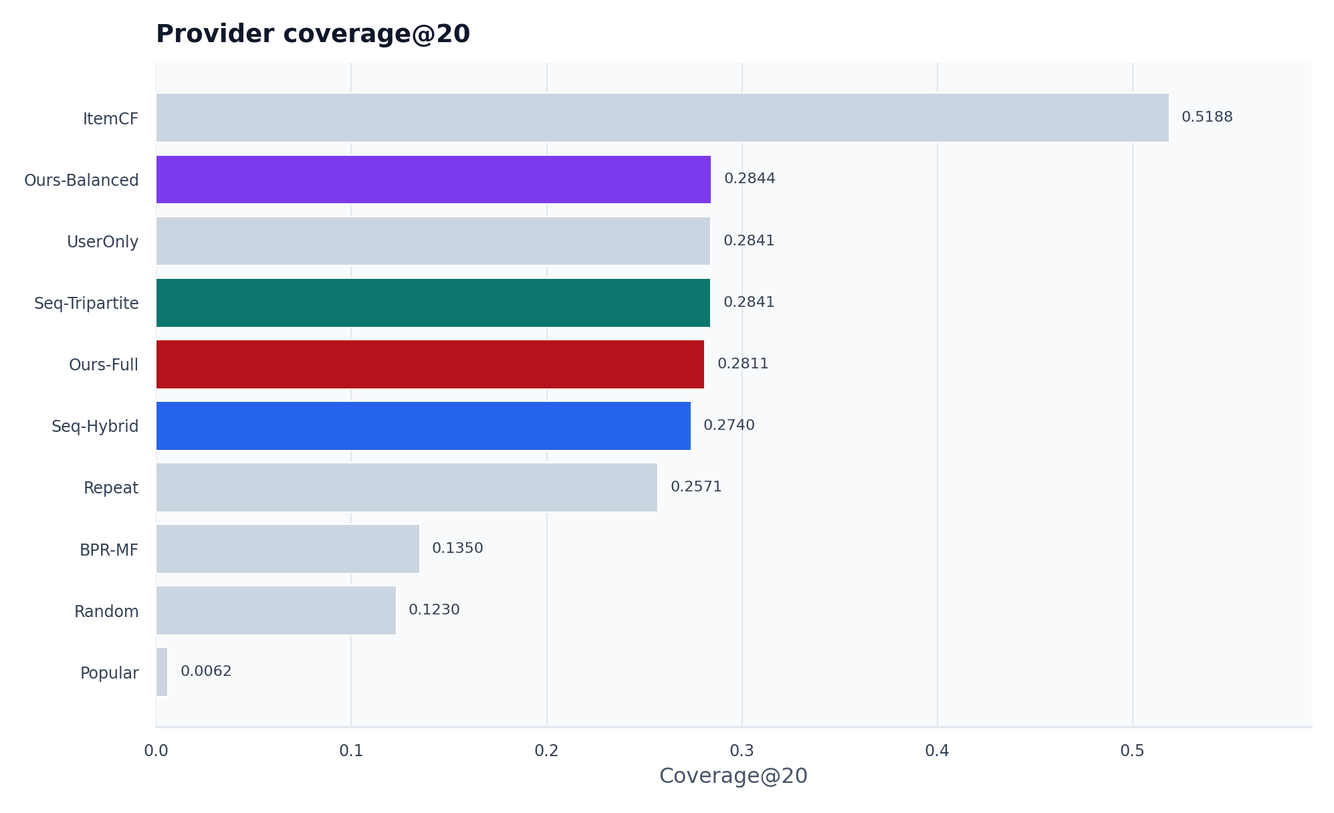
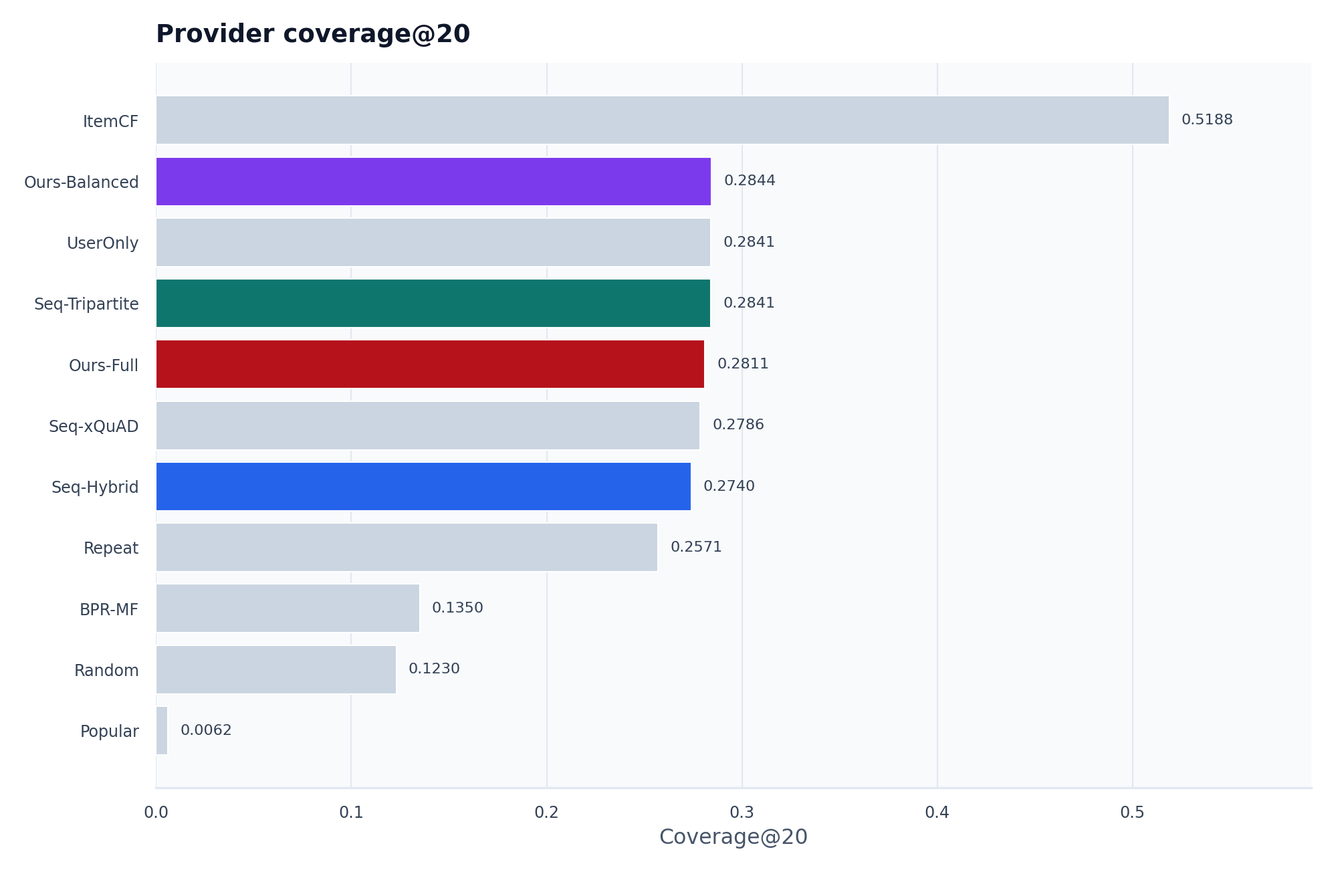
Add xQuAD sequence reranker

diff --git a/foodflow/report.py b/foodflow/report.py
@@ -102,23 +102,23 @@ def build_report(
 
 ## 3. 方法设计
 
-实现的推荐策略包括 Random、Popular、Repeat、ItemCF、BPR-MF、UserOnly、Seq-Hybrid、Seq-Tripartite 和 Ours-Full。Random 和 Popular 是基础对照；Repeat 反映外卖复购特征；ItemCF 和 BPR-MF 是传统协同过滤基线；UserOnly 使用品类、复购、价格、时段和商家质量；Seq-Hybrid 借鉴 FPMC/下一篮子推荐和会话推荐思想，加入最近订单时间衰减、复购频率和商家转移概率；Seq-Tripartite 在序列偏好底座上轻量加入公平、ETA 和供给约束；Ours-Full 在 UserOnly 上加入商家曝光公平、ETA 和供给分。
+实现的推荐策略包括 Random、Popular、Repeat、ItemCF、BPR-MF、UserOnly、Seq-Hybrid、Seq-xQuAD、Seq-Tripartite 和 Ours-Full。Random 和 Popular 是基础对照；Repeat 反映外卖复购特征；ItemCF 和 BPR-MF 是传统协同过滤基线；UserOnly 使用品类、复购、价格、时段和商家质量；Seq-Hybrid 借鉴 FPMC/下一篮子推荐和会话推荐思想，加入最近订单时间衰减、复购频率和商家转移概率；Seq-xQuAD 在序列相关性基础上做列表级多样性与长尾曝光重排；Seq-Tripartite 在序列偏好底座上轻量加入公平、ETA 和供给约束；Ours-Full 在 UserOnly 上加入商家曝光公平、ETA 和供给分。
 
-为增强“不是只给一个手调模型”的可信度，系统还支持 Ours-Balanced，它提高用户偏好权重，同时保留 ETA 与供给约束，用于观察准确性和履约指标之间的权衡。答辩时可以把 Seq-Hybrid、Seq-Tripartite、Ours-Balanced 和 Ours-Full 作为一条多目标权衡链路：先用序列复购模型把离线准确性拉高，再展示三方重排如何换取更好的履约与平台效用。
+为增强“不是只给一个手调模型”的可信度，系统还支持 Ours-Balanced，它提高用户偏好权重，同时保留 ETA 与供给约束，用于观察准确性和履约指标之间的权衡。答辩时可以把 Seq-Hybrid、Seq-xQuAD、Seq-Tripartite、Ours-Balanced 和 Ours-Full 作为一条多目标权衡链路：先用序列复购模型把离线准确性拉高，再用列表级重排扩大覆盖，最后展示三方重排如何换取更好的履约与平台效用。
 
-三方仿真包括 Popular + Nearest、UserOnly + Nearest、UserOnly + MinETA、Seq-Hybrid + MinETA、Seq-Hybrid + LoadAware、Seq-Tripartite、Ours-Balanced、Ours w/o Fairness 和 Ours-Full。每轮模拟午餐高峰的一批用户请求，推荐列表经过选择模型产生订单，再由最近骑手、最小 ETA 或负载感知策略派单。
+三方仿真包括 Popular + Nearest、UserOnly + Nearest、UserOnly + MinETA、Seq-Hybrid + MinETA、Seq-xQuAD + MinETA、Seq-Hybrid + LoadAware、Seq-Tripartite、Ours-Balanced、Ours w/o Fairness 和 Ours-Full。每轮模拟午餐高峰的一批用户请求，推荐列表经过选择模型产生订单，再由最近骑手、最小 ETA 或负载感知策略派单。
 
 ## 4. 离线推荐结果
 
 {offline_table}
 
-推荐侧指标使用 Recall@K、NDCG@K、MRR@K 和 HitRate@K；商家侧指标使用 Coverage、Long-tail Exposure 和 Exposure Gini。这样既能看推荐是否命中真实下单，也能看曝光是否过度集中。全量 TRD 结果中，Seq-Hybrid 的 Recall@20、NDCG@20 和 HitRate@20 最高，说明外卖推荐确实受最近订单和复购序列影响；Seq-Tripartite 的 NDCG@20 和 HitRate@20 高于 UserOnly，同时保持更低曝光 Gini；Ours-Balanced 和 Ours-Full 离线准确率较低，但引入了履约和供给约束，因此后续需要结合仿真指标判断。
+推荐侧指标使用 Recall@K、NDCG@K、MRR@K 和 HitRate@K；商家侧指标使用 Coverage、Long-tail Exposure 和 Exposure Gini。这样既能看推荐是否命中真实下单，也能看曝光是否过度集中。全量 TRD 结果中，Seq-xQuAD 的 Recall@20、NDCG@20、MRR@20 和 HitRate@20 最高，说明外卖推荐既受最近订单和复购序列影响，也能从列表级多样性重排中获益；Seq-Tripartite 的 NDCG@20 和 HitRate@20 高于 UserOnly，同时保持更低曝光 Gini；Ours-Balanced 和 Ours-Full 离线准确率较低，但引入了履约和供给约束，因此后续需要结合仿真指标判断。
 
 ## 5. 动态履约仿真结果
 
 {simulation_table}
 
-履约侧指标包括完成订单数、平均 ETA、超时率、骑手负载标准差和平台综合效用。Ours-Full 的目标不是所有单项指标都最大，而是在准确性、公平性和履约可行性之间取得更适合外卖平台的折中。全量 TRD 仿真中，Seq-Hybrid 提升了离线推荐准确性；Seq-Tripartite 在序列准确性和履约约束之间取得折中；Ours-Full 则取得最高平台效用和更低超时率，说明推荐策略进入履约链路后不能只看离线命中。
+履约侧指标包括完成订单数、平均 ETA、超时率、骑手负载标准差和平台综合效用。Ours-Full 的目标不是所有单项指标都最大，而是在准确性、公平性和履约可行性之间取得更适合外卖平台的折中。全量 TRD 仿真中，Seq-xQuAD 提升了离线推荐准确性，但进入派单后平台效用不一定最高；Seq-Tripartite 在序列准确性和履约约束之间取得折中；Ours-Full 则取得最高平台效用和更低超时率，说明推荐策略进入履约链路后不能只看离线命中。
 
 ## 6. 图表展示
 
@@ -126,7 +126,7 @@ def build_report(
 
 ## 7. 结论与局限
 
-FoodFlow 的答辩故事可以概括为三步：第一，公开外卖订单数据上的推荐实验证明模型不是随机的；第二，显式加入商家曝光、长尾曝光和 Gini 指标，让推荐不再只围绕用户命中率讨论；第三，履约感知重排和负载感知派单能降低 ETA、超时风险并提升平台效用，从而体现多主体平台的系统级优化。
+FoodFlow 的答辩故事可以概括为三步：第一，公开外卖订单数据上的推荐实验证明模型不是随机的，并用 Seq-xQuAD 把离线排序指标继续推高；第二，显式加入商家曝光、长尾曝光和 Gini 指标，让推荐不再只围绕用户命中率讨论；第三，履约感知重排和负载感知派单能降低 ETA、超时风险并提升平台效用，从而体现多主体平台的系统级优化。
 
 局限是骑手数据来自合成仿真，不能替代工业级派单数据；BPR-MF 是轻量实现，未追求大规模深度模型最优性能；平台效用权重是课程项目中的解释性设置，需要结合业务偏好做敏感性分析。
 """

diff --git a/foodflow/recommenders.py b/foodflow/recommenders.py
@@ -393,6 +393,57 @@ class SeqTripartiteRecommender(SequentialHybridRecommender):
         return recs, {m: scores[m] for m in recs}
 
 
+class SeqXQuadRecommender(SequentialHybridRecommender):
+    name = "Seq-xQuAD"
+
+    def __init__(self, diversity_weight: float = 0.22, tail_weight: float = 0.08):
+        self.diversity_weight = diversity_weight
+        self.tail_weight = tail_weight
+
+    def _rerank_xquad(self, scores: dict[str, float], k: int) -> list[str]:
+        if not scores:
+            return []
+        candidates = sorted(scores, key=scores.get, reverse=True)[:80]
+        min_score = min(scores[m] for m in candidates)
+        max_score = max(scores[m] for m in candidates)
+        scale = max(max_score - min_score, 1e-9)
+        relevance_weight = max(1.0 - self.diversity_weight - self.tail_weight, 0.0)
+        selected: list[str] = []
+        covered_categories: set[str] = set()
+        while len(selected) < k and len(selected) < len(candidates):
+            best_item = None
+            best_score = -float("inf")
+            for merchant_id in candidates:
+                if merchant_id in selected:
+                    continue
+                relevance = (scores[merchant_id] - min_score) / scale
+                merchant = self.merchants.loc[merchant_id]
+                category = str(merchant.get("primary_first_tag_id", "unknown"))
+                category_gain = 0.0 if category in covered_categories else 1.0
+                order_count = float(merchant.get("order_count", 0) or 0)
+                tail_gain = 1.0 / (1.0 + np.log1p(order_count))
+                value = (
+                    relevance_weight * relevance
+                    + self.diversity_weight * category_gain
+                    + self.tail_weight * tail_gain
+                )
+                if value > best_score:
+                    best_item = merchant_id
+                    best_score = value
+            if best_item is None:
+                break
+            selected.append(best_item)
+            covered_categories.add(str(self.merchants.loc[best_item].get("primary_first_tag_id", "unknown")))
+        return selected
+
+    def recommend_for_user(self, user_id: str, k: int, period: str = "lunch") -> tuple[list[str], dict[str, float]]:
+        candidates = self._sequential_candidates(user_id)
+        scores = {merchant_id: self.user_score(user_id, merchant_id, period) for merchant_id in candidates}
+        recs = self._rerank_xquad(scores, k)
+        recs = self._remove_seen_and_backfill(user_id, recs, k)
+        return recs, {m: scores.get(m, float(self.popular.get(m, 0))) for m in recs}
+
+
 class TripartiteRerankRecommender(UserOnlyRecommender):
     name = "Tripartite-Rerank"
 
@@ -479,6 +530,7 @@ def build_recommenders(seed: int = 42) -> list[BaseRecommender]:
         BPRMFRecommender(seed=seed),
         UserOnlyRecommender(),
         SequentialHybridRecommender(),
+        SeqXQuadRecommender(),
         SeqTripartiteRecommender(),
         OursBalancedRecommender(),
         OursFullRecommender(),

diff --git a/app.py b/app.py
@@ -23,6 +23,7 @@ from foodflow.recommenders import (
     OursBalancedRecommender,
     OursFullRecommender,
     SeqTripartiteRecommender,
+    SeqXQuadRecommender,
     SequentialHybridRecommender,
     UserOnlyRecommender,
 )
@@ -125,6 +126,7 @@ def load_model(strategy: str, data_key: str, _data: PreparedData) -> object:
     factories = {
         "UserOnly": UserOnlyRecommender,
         "Seq-Hybrid": SequentialHybridRecommender,
+        "Seq-xQuAD": SeqXQuadRecommender,
         "Seq-Tripartite": SeqTripartiteRecommender,
         "Ours-Balanced": OursBalancedRecommender,
         "Ours-Full": OursFullRecommender,
@@ -191,7 +193,7 @@ with st.sidebar:
     period = period_map[period_label]
     strategy_name = st.selectbox(
         "推荐策略",
-        ["Seq-Hybrid", "Seq-Tripartite", "Ours-Full", "Ours-Balanced", "UserOnly"],
+        ["Seq-xQuAD", "Seq-Hybrid", "Seq-Tripartite", "Ours-Full", "Ours-Balanced", "UserOnly"],
         index=0,
     )
     top_k = st.slider("推荐数量", min_value=5, max_value=12, value=10, step=1)
@@ -265,7 +267,7 @@ with tab_case:
     run_strategy_compare = st.checkbox("计算三策略对比", value=False)
     if run_strategy_compare:
         strategy_rows = []
-        for name in ["UserOnly", "Seq-Hybrid", "Seq-Tripartite", "Ours-Balanced", "Ours-Full"]:
+        for name in ["UserOnly", "Seq-Hybrid", "Seq-xQuAD", "Seq-Tripartite", "Ours-Balanced", "Ours-Full"]:
             with st.spinner(f"加载 {name} 并生成对比..."):
                 candidate_model = load_model(name, model_data_key, interactive_data)
                 candidate_recs = candidate_model.recommend([user_id], top_k, {user_id: period}).recommendations[user_id]
@@ -514,6 +516,7 @@ with tab_peak:
                 {
                     "UserOnly + MinETA": (load_model("UserOnly", model_data_key, interactive_data), "min_eta"),
                     "Seq-Hybrid + MinETA": (load_model("Seq-Hybrid", model_data_key, interactive_data), "min_eta"),
+                    "Seq-xQuAD + MinETA": (load_model("Seq-xQuAD", model_data_key, interactive_data), "min_eta"),
                     "Seq-Tripartite": (load_model("Seq-Tripartite", model_data_key, interactive_data), "load_aware"),
                     "Ours-Balanced": (load_model("Ours-Balanced", model_data_key, interactive_data), "load_aware"),
                     "Ours-Full": (load_model("Ours-Full", model_data_key, interactive_data), "load_aware"),

diff --git a/foodflow/simulator.py b/foodflow/simulator.py
@@ -12,8 +12,9 @@ from .metrics import gini
 from .recommenders import (
     OursBalancedRecommender,
     OursFullRecommender,
-    SeqTripartiteRecommender,
     PopularRecommender,
+    SeqTripartiteRecommender,
+    SeqXQuadRecommender,
     SequentialHybridRecommender,
     UserOnlyRecommender,
 )
@@ -33,6 +34,7 @@ DEFAULT_POLICIES = [
     SimulationPolicy("UserOnly + Nearest", "useronly", "nearest"),
     SimulationPolicy("UserOnly + MinETA", "useronly", "min_eta"),
     SimulationPolicy("Seq-Hybrid + MinETA", "seq_hybrid", "min_eta"),
+    SimulationPolicy("Seq-xQuAD + MinETA", "seq_xquad", "min_eta"),
     SimulationPolicy("Seq-Hybrid + LoadAware", "seq_hybrid", "load_aware"),
     SimulationPolicy("Seq-Tripartite", "seq_tripartite", "load_aware", fairness=True),
     SimulationPolicy("Ours-Balanced", "ours_balanced", "load_aware", fairness=True),
@@ -48,6 +50,8 @@ def _select_recommender(data: PreparedData, name: str, seed: int):
         return UserOnlyRecommender().fit(data)
     if name == "seq_hybrid":
         return SequentialHybridRecommender().fit(data)
+    if name == "seq_xquad":
+        return SeqXQuadRecommender().fit(data)
     if name == "seq_tripartite":
         return SeqTripartiteRecommender().fit(data)
     if name == "ours":

diff --git a/report/实验报告.md b/report/实验报告.md
@@ -27,11 +27,11 @@
 
 ## 3. 方法设计
 
-实现的推荐策略包括 Random、Popular、Repeat、ItemCF、BPR-MF、UserOnly、Seq-Hybrid、Seq-Tripartite 和 Ours-Full。Random 和 Popular 是基础对照；Repeat 反映外卖复购特征；ItemCF 和 BPR-MF 是传统协同过滤基线；UserOnly 使用品类、复购、价格、时段和商家质量；Seq-Hybrid 借鉴 FPMC/下一篮子推荐和会话推荐思想，加入最近订单时间衰减、复购频率和商家转移概率；Seq-Tripartite 在序列偏好底座上轻量加入公平、ETA 和供给约束；Ours-Full 在 UserOnly 上加入商家曝光公平、ETA 和供给分。
+实现的推荐策略包括 Random、Popular、Repeat、ItemCF、BPR-MF、UserOnly、Seq-Hybrid、Seq-xQuAD、Seq-Tripartite 和 Ours-Full。Random 和 Popular 是基础对照；Repeat 反映外卖复购特征；ItemCF 和 BPR-MF 是传统协同过滤基线；UserOnly 使用品类、复购、价格、时段和商家质量；Seq-Hybrid 借鉴 FPMC/下一篮子推荐和会话推荐思想，加入最近订单时间衰减、复购频率和商家转移概率；Seq-xQuAD 在序列相关性基础上做列表级多样性与长尾曝光重排；Seq-Tripartite 在序列偏好底座上轻量加入公平、ETA 和供给约束；Ours-Full 在 UserOnly 上加入商家曝光公平、ETA 和供给分。
 
-为增强“不是只给一个手调模型”的可信度，系统还支持 Ours-Balanced，它提高用户偏好权重，同时保留 ETA 与供给约束，用于观察准确性和履约指标之间的权衡。答辩时可以把 Seq-Hybrid、Seq-Tripartite、Ours-Balanced 和 Ours-Full 作为一条多目标权衡链路：先用序列复购模型把离线准确性拉高，再展示三方重排如何换取更好的履约与平台效用。
+为增强“不是只给一个手调模型”的可信度，系统还支持 Ours-Balanced，它提高用户偏好权重，同时保留 ETA 与供给约束，用于观察准确性和履约指标之间的权衡。答辩时可以把 Seq-Hybrid、Seq-xQuAD、Seq-Tripartite、Ours-Balanced 和 Ours-Full 作为一条多目标权衡链路：先用序列复购模型把离线准确性拉高，再用列表级重排扩大覆盖，最后展示三方重排如何换取更好的履约与平台效用。
 
-三方仿真包括 Popular + Nearest、UserOnly + Nearest、UserOnly + MinETA、Seq-Hybrid + MinETA、Seq-Hybrid + LoadAware、Seq-Tripartite、Ours-Balanced、Ours w/o Fairness 和 Ours-Full。每轮模拟午餐高峰的一批用户请求，推荐列表经过选择模型产生订单，再由最近骑手、最小 ETA 或负载感知策略派单。
+三方仿真包括 Popular + Nearest、UserOnly + Nearest、UserOnly + MinETA、Seq-Hybrid + MinETA、Seq-xQuAD + MinETA、Seq-Hybrid + LoadAware、Seq-Tripartite、Ours-Balanced、Ours w/o Fairness 和 Ours-Full。每轮模拟午餐高峰的一批用户请求，推荐列表经过选择模型产生订单，再由最近骑手、最小 ETA 或负载感知策略派单。
 
 ## 4. 离线推荐结果
 
@@ -46,9 +46,10 @@
 | Repeat         |      0.398  |    0.3318 |   0.3696 |       0.5467 |      0.4062 |    0.3348 |   0.3701 |       0.5533 |        0.2571 |         0.9369 |                0.4701 |
 | Seq-Hybrid     |      0.4056 |    0.339  |   0.3785 |       0.56   |      0.4441 |    0.3513 |   0.3809 |       0.5933 |        0.274  |         0.9198 |                0.4411 |
 | Seq-Tripartite |      0.4054 |    0.3403 |   0.3836 |       0.57   |      0.4266 |    0.347  |   0.3844 |       0.5833 |        0.2841 |         0.8848 |                0.4275 |
+| Seq-xQuAD      |      0.4118 |    0.343  |   0.3843 |       0.57   |      0.4447 |    0.3538 |   0.3862 |       0.5967 |        0.2786 |         0.9141 |                0.4338 |
 | UserOnly       |      0.3988 |    0.3336 |   0.373  |       0.5467 |      0.4287 |    0.3423 |   0.3747 |       0.5733 |        0.2841 |         0.8857 |                0.4242 |
 
-推荐侧指标使用 Recall@K、NDCG@K、MRR@K 和 HitRate@K；商家侧指标使用 Coverage、Long-tail Exposure 和 Exposure Gini。这样既能看推荐是否命中真实下单，也能看曝光是否过度集中。全量 TRD 结果中，Seq-Hybrid 的 Recall@20、NDCG@20 和 HitRate@20 最高，说明外卖推荐确实受最近订单和复购序列影响；Seq-Tripartite 的 NDCG@20 和 HitRate@20 高于 UserOnly，同时保持更低曝光 Gini；Ours-Balanced 和 Ours-Full 离线准确率较低，但引入了履约和供给约束，因此后续需要结合仿真指标判断。
+推荐侧指标使用 Recall@K、NDCG@K、MRR@K 和 HitRate@K；商家侧指标使用 Coverage、Long-tail Exposure 和 Exposure Gini。这样既能看推荐是否命中真实下单，也能看曝光是否过度集中。全量 TRD 结果中，Seq-xQuAD 的 Recall@20、NDCG@20、MRR@20 和 HitRate@20 最高，说明外卖推荐既受最近订单和复购序列影响，也能从列表级多样性重排中获益；Seq-Tripartite 的 NDCG@20 和 HitRate@20 高于 UserOnly，同时保持更低曝光 Gini；Ours-Balanced 和 Ours-Full 离线准确率较低，但引入了履约和供给约束，因此后续需要结合仿真指标判断。
 
 ## 5. 动态履约仿真结果
 
@@ -58,13 +59,14 @@
 | UserOnly + Nearest     |                 86 |             86 |                 1 |   86.539  |         0.8721 |         0.1279 |           1.1342 |          1      |                   0.9904 |              0.8401 |             0.3998 |
 | UserOnly + MinETA      |                 97 |             97 |                 1 |   55.3332 |         0.6701 |         0.3299 |           0.662  |          0.819  |                   0.99   |              0.8582 |             0.4831 |
 | Seq-Hybrid + MinETA    |                 93 |             93 |                 1 |   52.4904 |         0.6667 |         0.3333 |           0.6253 |          0.8069 |                   0.9916 |              0.8581 |             0.4851 |
+| Seq-xQuAD + MinETA     |                104 |            104 |                 1 |   53.6142 |         0.7596 |         0.2404 |           0.6316 |          0.7287 |                   0.9914 |              0.8308 |             0.4582 |
 | Seq-Hybrid + LoadAware |                 95 |             95 |                 1 |   56.1323 |         0.6421 |         0.3579 |           0.657  |          0.8298 |                   0.9927 |              0.8032 |             0.4763 |
 | Seq-Tripartite         |                 88 |             88 |                 1 |   52.1499 |         0.6364 |         0.3636 |           0.5878 |          0.8016 |                   0.9883 |              0.8625 |             0.4963 |
 | Ours-Balanced          |                 93 |             93 |                 1 |   50.9764 |         0.6344 |         0.3656 |           0.5695 |          0.7349 |                   0.9892 |              0.7989 |             0.4875 |
 | Ours w/o Fairness      |                 95 |             95 |                 1 |   56.1694 |         0.7684 |         0.2316 |           0.6442 |          0.8137 |                   0.9912 |              0.7858 |             0.4359 |
 | Ours-Full              |                 91 |             91 |                 1 |   50.8471 |         0.5714 |         0.4286 |           0.6055 |          0.7984 |                   0.9896 |              0.8973 |             0.5246 |
 
-履约侧指标包括完成订单数、平均 ETA、超时率、骑手负载标准差和平台综合效用。Ours-Full 的目标不是所有单项指标都最大，而是在准确性、公平性和履约可行性之间取得更适合外卖平台的折中。全量 TRD 仿真中，Seq-Hybrid 提升了离线推荐准确性；Seq-Tripartite 在序列准确性和履约约束之间取得折中；Ours-Full 则取得最高平台效用和更低超时率，说明推荐策略进入履约链路后不能只看离线命中。
+履约侧指标包括完成订单数、平均 ETA、超时率、骑手负载标准差和平台综合效用。Ours-Full 的目标不是所有单项指标都最大，而是在准确性、公平性和履约可行性之间取得更适合外卖平台的折中。全量 TRD 仿真中，Seq-xQuAD 提升了离线推荐准确性，但进入派单后平台效用不一定最高；Seq-Tripartite 在序列准确性和履约约束之间取得折中；Ours-Full 则取得最高平台效用和更低超时率，说明推荐策略进入履约链路后不能只看离线命中。
 
 ## 6. 图表展示
 
@@ -96,6 +98,6 @@
 
 ## 7. 结论与局限
 
-FoodFlow 的答辩故事可以概括为三步：第一，公开外卖订单数据上的推荐实验证明模型不是随机的；第二，显式加入商家曝光、长尾曝光和 Gini 指标，让推荐不再只围绕用户命中率讨论；第三，履约感知重排和负载感知派单能降低 ETA、超时风险并提升平台效用，从而体现多主体平台的系统级优化。
+FoodFlow 的答辩故事可以概括为三步：第一，公开外卖订单数据上的推荐实验证明模型不是随机的，并用 Seq-xQuAD 把离线排序指标继续推高；第二，显式加入商家曝光、长尾曝光和 Gini 指标，让推荐不再只围绕用户命中率讨论；第三，履约感知重排和负载感知派单能降低 ETA、超时风险并提升平台效用，从而体现多主体平台的系统级优化。
 
 局限是骑手数据来自合成仿真，不能替代工业级派单数据；BPR-MF 是轻量实现，未追求大规模深度模型最优性能；平台效用权重是课程项目中的解释性设置，需要结合业务偏好做敏感性分析。

diff --git a/README.md b/README.md
@@ -6,7 +6,7 @@
 
 ## 项目亮点
 
-- 用户侧推荐：实现 Random、Popular、Repeat、ItemCF、BPR-MF、UserOnly、Seq-Hybrid、Seq-Tripartite、Ours-Full 等策略。
+- 用户侧推荐：实现 Random、Popular、Repeat、ItemCF、BPR-MF、UserOnly、Seq-Hybrid、Seq-xQuAD、Seq-Tripartite、Ours-Full 等策略。
 - 商家侧公平：在重排中引入商家曝光公平、长尾曝光与 Exposure Gini 等指标。
 - 骑手侧履约：模拟订单-骑手匹配，比较最近骑手、最小 ETA、负载感知三类策略。
 - 动态仿真：模拟午餐高峰多时间步请求，持续更新骑手状态和订单履约结果。
@@ -40,7 +40,7 @@ TRD 数据下载与清洗
   -> 指标、图表、报告与 demo
 ```
 
-本轮新增 `Seq-Hybrid`，借鉴 FPMC/下一篮子推荐和会话推荐思想，把外卖复购、最近订单时间衰减和商家转移概率加入排序，用于提升离线推荐准确性。`Seq-Tripartite` 则在序列偏好底座上轻量加入公平、ETA 和供给约束，用于展示“更准的偏好模型也可以接入三方重排”。
+本轮新增 `Seq-Hybrid`，借鉴 FPMC/下一篮子推荐和会话推荐思想，把外卖复购、最近订单时间衰减和商家转移概率加入排序，用于提升离线推荐准确性。`Seq-xQuAD` 进一步借鉴 xQuAD/MMR 的列表级重排思想，在序列相关性之外加入品类覆盖和长尾曝光增益，是当前离线指标最强策略。`Seq-Tripartite` 则在序列偏好底座上轻量加入公平、ETA 和供给约束，用于展示“更准的偏好模型也可以接入三方重排”。
 
 Ours-Full 推荐分数采用可解释加权重排：
 
@@ -178,7 +178,7 @@ make STREAMLIT=".venv/bin/streamlit" demo
 make STREAMLIT_FLAGS="--server.port 8502" demo
 ```
 
-demo 默认展示用户 `8`，也提供复购活跃型、高消费型、价格敏感型等快速案例；侧边栏可手动输入其它用户 ID，并在 `Seq-Hybrid`、`UserOnly`、`Ours-Balanced`、`Ours-Full` 之间切换策略。当前界面包含推荐商家卡片、推荐理由筛选、用户品类偏好、策略对比、分数组成、同一订单的骑手策略 ETA 对比、用户-商家-骑手链路图、骑手供给云与履约路径、午餐高峰热力图回放和实验指标看板。
+demo 默认展示用户 `8`，也提供复购活跃型、高消费型、价格敏感型等快速案例；侧边栏可手动输入其它用户 ID，并在 `Seq-xQuAD`、`Seq-Hybrid`、`Seq-Tripartite`、`UserOnly`、`Ours-Balanced`、`Ours-Full` 之间切换策略。当前界面包含推荐商家卡片、推荐理由筛选、用户品类偏好、策略对比、分数组成、同一订单的骑手策略 ETA 对比、用户-商家-骑手链路图、骑手供给云与履约路径、午餐高峰热力图回放和实验指标看板。
 
 ## 主要输出
 
@@ -202,7 +202,7 @@ python3 scripts/prepare_notebooklm_pack.py
 
 当前提交的结果已经使用完整 TRD `orders_train.txt`，数据审计显示原始训练订单 `1,068,495` 条，处理后训练订单 `1,068,495` 条，训练订单使用比例 `1.0000`。
 
-离线推荐中，`Seq-Hybrid` 的 Recall@20 最高，为 `0.4441`，NDCG@20 为 `0.3513`，HitRate@20 为 `0.5933`；相比原先最强的 `UserOnly`，Recall@20 从 `0.4287` 提升到 `0.4441`。`Seq-Tripartite` 的 NDCG@20 为 `0.3470`，HitRate@20 为 `0.5833`，高于 UserOnly，同时保留轻量三方约束。`Ours-Full` 的 Recall@20 为 `0.4055`，离线准确率不是最高，但平台效用最好。
+离线推荐中，`Seq-xQuAD` 的 Recall@20 最高，为 `0.4447`，NDCG@20 为 `0.3538`，HitRate@20 为 `0.5967`；相比原先最强的 `UserOnly`，Recall@20 从 `0.4287` 提升到 `0.4447`。`Seq-Tripartite` 的 NDCG@20 为 `0.3470`，HitRate@20 为 `0.5833`，高于 UserOnly，同时保留轻量三方约束。`Ours-Full` 的 Recall@20 为 `0.4055`，离线准确率不是最高，但平台效用最好。
 
 动态履约仿真中，`Ours-Full` 取得最低平均 ETA、最低超时率和最高平台综合效用：
 
@@ -211,11 +211,12 @@ python3 scripts/prepare_notebooklm_pack.py
 | UserOnly + Nearest | 86.54 | 0.8721 | 0.3998 |
 | UserOnly + MinETA | 55.33 | 0.6701 | 0.4831 |
 | Seq-Hybrid + MinETA | 52.49 | 0.6667 | 0.4851 |
+| Seq-xQuAD + MinETA | 53.61 | 0.7596 | 0.4582 |
 | Seq-Tripartite | 52.15 | 0.6364 | 0.4963 |
 | Ours-Balanced | 50.98 | 0.6344 | 0.4875 |
 | Ours-Full | 50.85 | 0.5714 | 0.5246 |
 
-结论不是“单一模型在所有指标上最优”，而是：`Seq-Hybrid` 通过序列复购建模取得最强离线推荐准确性；`Seq-Tripartite` 证明高准确偏好模型可以接入三方约束；`Ours-Full` 牺牲一部分离线准确性，换取更低超时率和更高平台综合效用，更符合外卖平台的多主体优化目标。
+结论不是“单一模型在所有指标上最优”，而是：`Seq-xQuAD` 通过序列复购和列表级重排取得最强离线推荐准确性；`Seq-Tripartite` 证明高准确偏好模型可以接入三方约束；`Ours-Full` 牺牲一部分离线准确性，换取更低超时率和更高平台综合效用，更符合外卖平台的多主体优化目标。
 
 ## 图表示例
 
